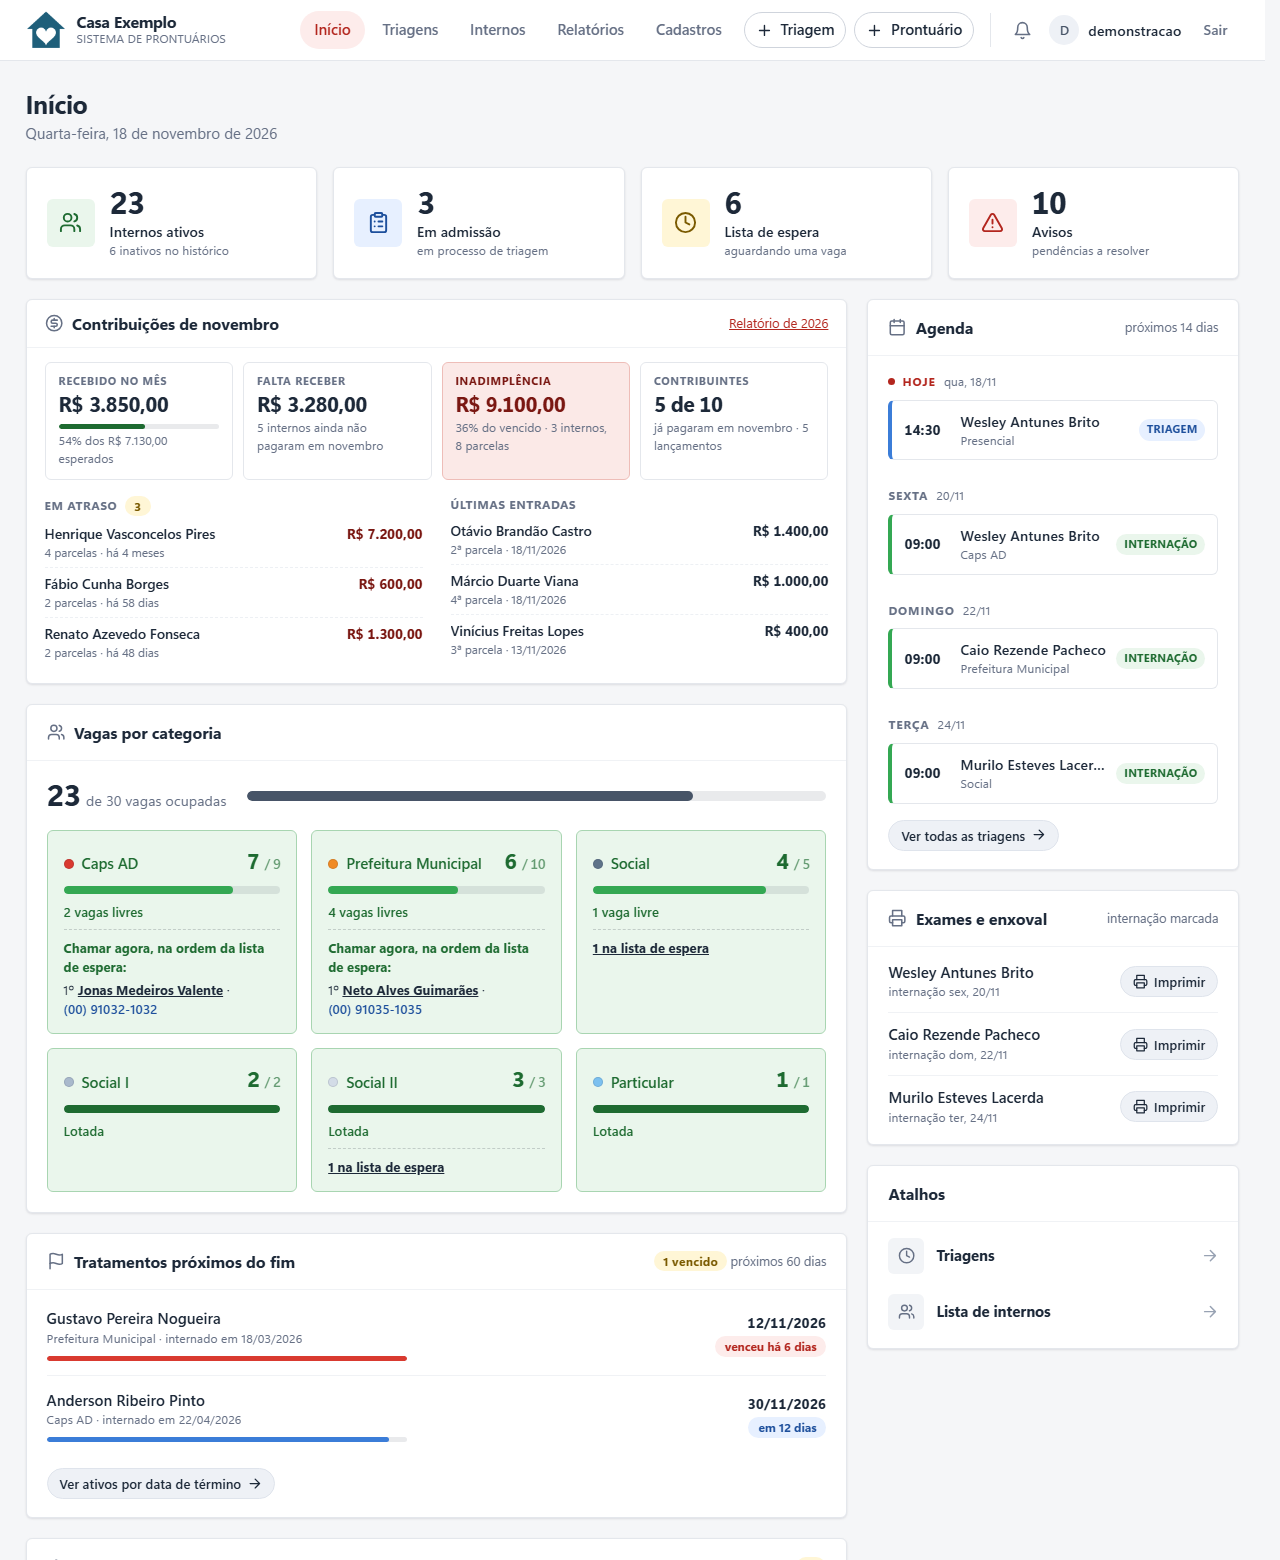
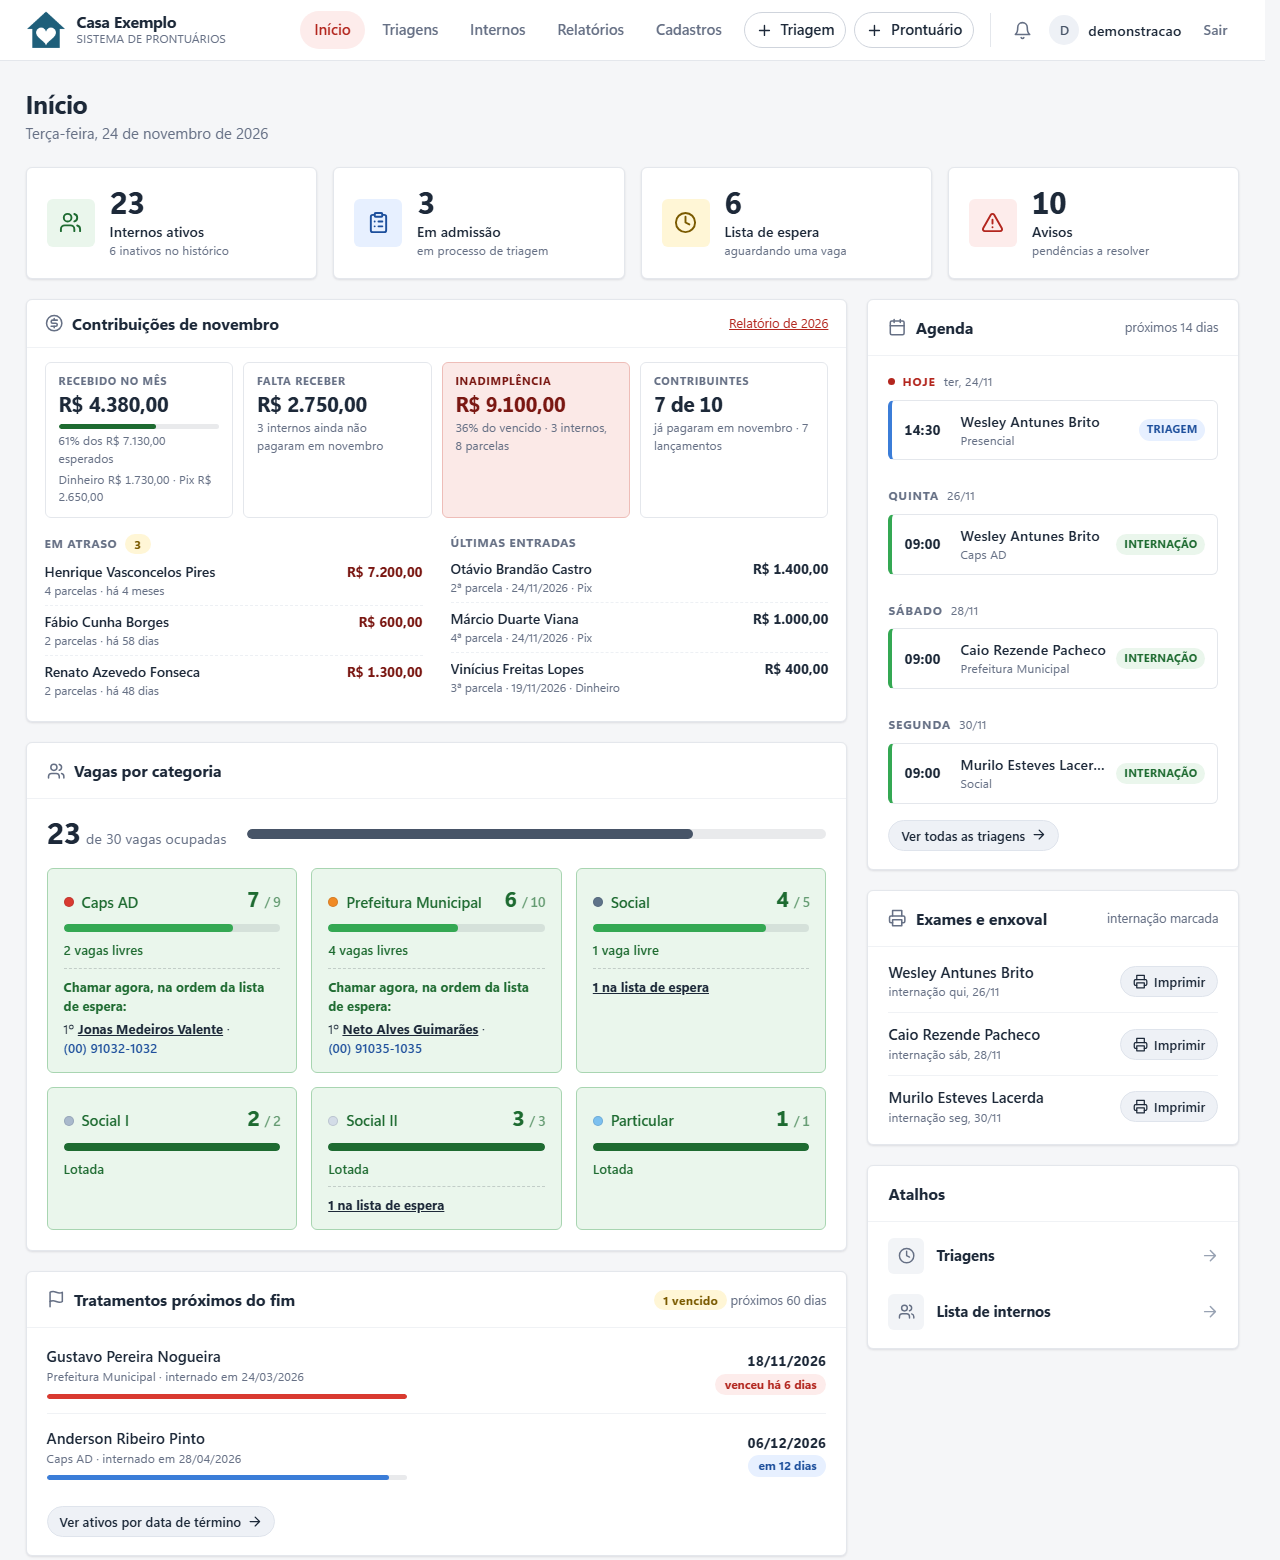
Sincroniza com o sistema real (00705a8)
O que mudou:
- README e capturas: forma de pagamento da parcela

Origem: 00705a828cde6e2273b03e7a71a9408354411294

diff --git a/README.md b/README.md
@@ -9,7 +9,7 @@ O sistema acompanha uma instituição fictícia, a **Casa Exemplo**. Não há da
 
 Dados fictícios e a identidade genérica, *Casa Exemplo*.
 
-**Início**: indicadores, contribuições do mês e inadimplência, vagas por categoria (com quem chamar da lista de espera), agenda dos próximos dias e tratamentos próximos do fim.
+**Início**: indicadores, contribuições do mês (com o total recebido em Pix e em dinheiro) e inadimplência, vagas por categoria (com quem chamar da lista de espera), agenda dos próximos dias e tratamentos próximos do fim.
 
 ![Início](docs/imagens/inicio.png)
 
@@ -22,6 +22,10 @@ Dados fictícios e a identidade genérica, *Casa Exemplo*.
 ![Ficha](docs/imagens/ficha.png)
 
 ![Aba Imprimir](docs/imagens/imprimir.png)
+
+**Contribuições**: na aba *Financeiro* da ficha, as parcelas de cada pessoa, com a forma de pagamento (Pix ou dinheiro) escolhida na própria tabela.
+
+![Aba Financeiro](docs/imagens/financeiro.png)
 
 **No celular**: a folha A4 continua inteira, só desenhada menor, e a barra de abas ganha o botão ⌄ para as abas que não cabem.
 
@@ -50,7 +54,8 @@ Dados fictícios e a identidade genérica, *Casa Exemplo*.
 
 **Gestão**
 
-- Convênios cadastráveis, vagas por categoria, contribuições por faixa de valor, parcelas e aviso de inadimplência.
+- Convênios cadastráveis, vagas por categoria, contribuições por faixa de valor, parcelas com a forma de pagamento (dinheiro ou Pix) e aviso de inadimplência. O Início e o
+  relatório do ano mostram o total por forma de pagamento.
 - Relatórios (internos ativos por convênio, quem passou pela casa no ano, contribuições), com opção de mostrar só as iniciais.
 - Painel inicial com indicadores, avisos e agenda; busca, filtros e páginas feitos no servidor.
 - Importação de histórico a partir de planilha, com simulação antes de gravar e relatório do que entrou e do que ficou para conferir.
